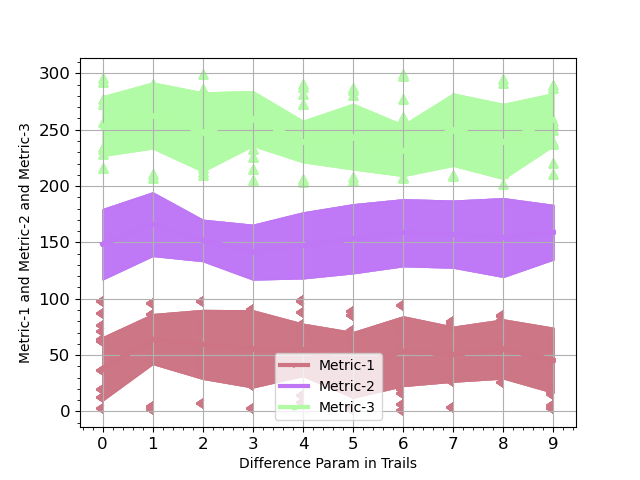
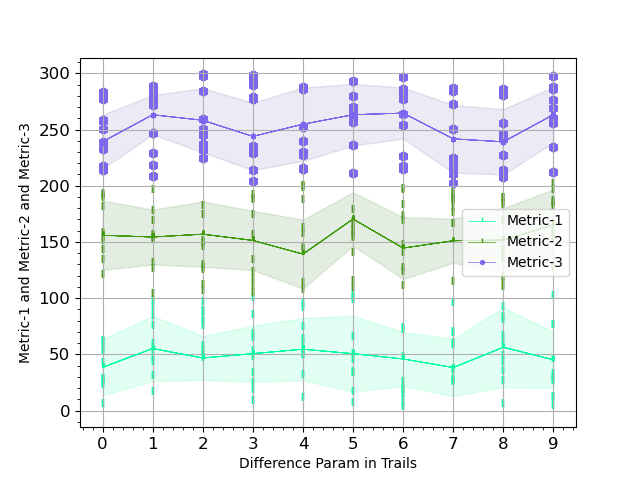
0.3.3

diff --git a/metric_visualizer/metric_visualizer.py b/metric_visualizer/metric_visualizer.py
@@ -216,7 +216,7 @@ class MetricVisualizer:
 
     def traj_plot(self, save_path=None, **kwargs):
 
-        alpha = kwargs.pop('alpha', 0.3)
+        alpha = kwargs.pop('alpha', 0.01)
 
         markersize = kwargs.pop('markersize', 3)
 
@@ -226,7 +226,7 @@ class MetricVisualizer:
 
         ylabel = kwargs.pop('ylabel', '')
 
-        linewidth = kwargs.pop('linewidth', 3)
+        linewidth = kwargs.pop('linewidth', 0.5)
 
         hatches = kwargs.pop('hatches', None)
 
@@ -525,26 +525,6 @@ class MetricVisualizer:
 
         if save_path:
             fout = open(save_path + '_summary.txt', mode='w', encoding='utf8')
+            summary_str += '\n{}\n'.format(str(self.metrics))
             fout.write(summary_str)
             fout.close()
-
-
-if __name__ == '__main__':
-    mv = MetricVisualizer({
-        'Metric1': {
-            'trail-0': [80.41, 79.78, 81.03, 80.09, 79.62, 80.56, 80.88, 79.94, 79.47, 79.78, 80.72, 79.78, 81.35, 80.88, 81.03],
-            'trail-1': [80.41, 79.78, 81.03, 80.09, 79.62, 80.56, 80.88, 79.94, 79.47, 79.78, 80.72, 79.78, 81.35, 80.88, 81.03],
-            'trail-2': [80.41, 79.78, 81.03, 80.09, 79.62, 80.56, 80.88, 79.94, 79.47, 79.78, 80.72, 79.78, 81.35, 80.88, 81.03],
-        },
-        'Metric2': {
-            'trail-0': [76.79, 75.49, 77.92, 77.21, 75.63, 76.96, 77.44, 76.26, 76.35, 76.12, 76.12, 76.78, 75.64, 77.31, 73.79],
-            'trail-1': [76.79, 75.49, 77.92, 77.21, 75.63, 76.96, 77.44, 76.26, 76.35, 76.12, 76.12, 76.78, 75.64, 77.31, 73.79],
-            'trail-2': [76.79, 75.49, 77.92, 77.21, 75.63, 76.96, 77.44, 76.26, 76.35, 76.12, 76.12, 76.78, 75.64, 77.31, 73.79],
-        }})
-    mv.summary()
-    mv.traj_plot()
-    mv.violin_plot()
-    mv.box_plot()
-    mv.traj_plot(save_path='./')
-    mv.violin_plot(save_path='./')
-    mv.box_plot(save_path='./')

diff --git a/test.py b/test.py
@@ -29,7 +29,6 @@ MV.violin_plot(save_path=save_path)  # save fig into .tex and .pdf foramt
 MV.box_plot(save_path=save_path)  # save fig into .tex and .pdf foramt
 
 save_path = 'example'
-MV.summary(save_path=None)  # show the fig via matplotlib
-MV.traj_plot(save_path=None)  # show the fig via matplotlib
-MV.violin_plot(save_path=None)  # show the fig via matplotlib
-MV.box_plot(save_path=None)  # show the fig via matplotlib
+MV.traj_plot(save_path=save_path)  # show the fig via matplotlib
+MV.violin_plot(save_path=save_path)  # show the fig via matplotlib
+MV.box_plot(save_path=save_path)  # show the fig via matplotlib

diff --git a/metric_visualizer/__init__.py b/metric_visualizer/__init__.py
@@ -5,7 +5,7 @@
 # github: https://github.com/yangheng95
 # Copyright (C) 2021. All Rights Reserved.
 
-__version__ = '0.3.2'
+__version__ = '0.3.3'
 __name__ = 'metric_visualizer'
 
 from .metric_visualizer import MetricVisualizer
